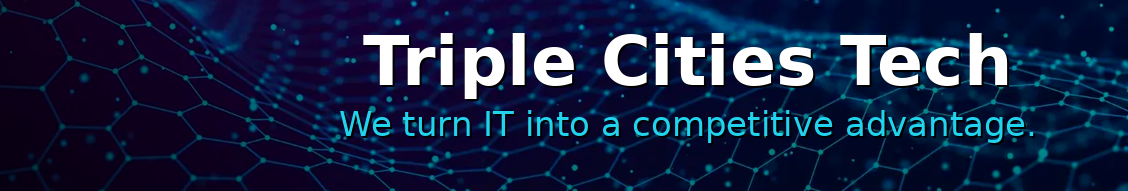
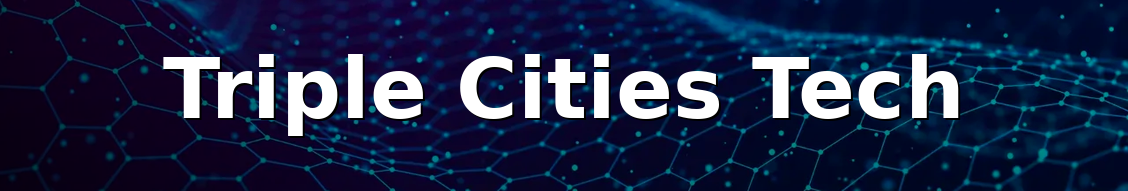
Cover: drop the tagline, big centred headline only
Asymmetric text to dodge the avatar looked off-balance. The cleanest
read is just 'Triple Cities Tech' centred at large size on the hex
mesh — the avatar overlap sits in the lower-left where the headline
isn't, and the cyan mesh already carries the brand colour without a
tagline restating it. LinkedIn shows the company description directly
under the cover anyway.

Changed region(s): [[0.1241, 0.1571, 0.9309, 0.7592]]

diff --git a/linkedin-assets/generate.py b/linkedin-assets/generate.py
@@ -232,45 +232,24 @@ def build_cover(w: int, h: int, filename: str):
 
     draw = ImageDraw.Draw(bg)
 
-    # --- Headline: "Triple Cities Tech" (white, font-black) ---
+    # Headline only — "Triple Cities Tech" centred in the FULL cover width,
+    # bigger now that we have the whole vertical space. The tagline is
+    # dropped: LinkedIn already shows the company description directly under
+    # the cover, so the cover repeating it is redundant, and any tagline
+    # placed lower-left was getting eaten by the profile-pic overlap.
     headline = "Triple Cities Tech"
-    # Target headline width ≈ 55% of cover width so the tagline fits below
-    head_font = fit_font(headline, FONT_BOLD, int(w * 0.58), start_size=int(h * 0.42))
-
-    # --- Tagline: "We turn IT into a competitive advantage." (cyan-400) ---
-    tagline = "We turn IT into a competitive advantage."
-    tag_font = fit_font(tagline, FONT_REG, int(w * 0.62), start_size=int(h * 0.22))
-
-    # Measure
+    head_font = fit_font(headline, FONT_BOLD, int(w * 0.72), start_size=int(h * 0.58))
     hb = head_font.getbbox(headline)
-    tb = tag_font.getbbox(tagline)
     hw, hh = hb[2] - hb[0], hb[3] - hb[1]
-    tw, th = tb[2] - tb[0], tb[3] - tb[1]
 
-    gap = int(h * 0.06)
-    block_h = hh + gap + th
-    block_top = (h - block_h) // 2 - int(h * 0.04)
-
-    # The LinkedIn company-page profile picture overlaps the bottom-left of
-    # the cover and clips anything inside the left ~22% of the width. Centre
-    # the text block in the region to the RIGHT of that overlap instead of
-    # the full cover, so neither line gets eaten by the avatar.
-    safe_left = int(w * 0.22)
-    safe_w    = w - safe_left
-    hx = safe_left + (safe_w - hw) // 2 - hb[0]
-    hy = block_top - hb[1]
-    tx = safe_left + (safe_w - tw) // 2 - tb[0]
-    ty = block_top + hh + gap - tb[1]
+    hx = (w - hw) // 2 - hb[0]
+    hy = (h - hh) // 2 - hb[1]
 
     # Subtle text shadow for legibility on the textured bg
     shadow_off = max(1, int(h * 0.012))
     draw.text((hx + shadow_off, hy + shadow_off), headline,
               font=head_font, fill=(0, 0, 0, 180))
     draw.text((hx, hy), headline, font=head_font, fill=WHITE)
-
-    draw.text((tx + shadow_off, ty + shadow_off), tagline,
-              font=tag_font, fill=(0, 0, 0, 160))
-    draw.text((tx, ty), tagline, font=tag_font, fill=CYAN_400)
 
     bg.convert("RGB").save(os.path.join(OUT_DIR, filename), "PNG", optimize=True)
 